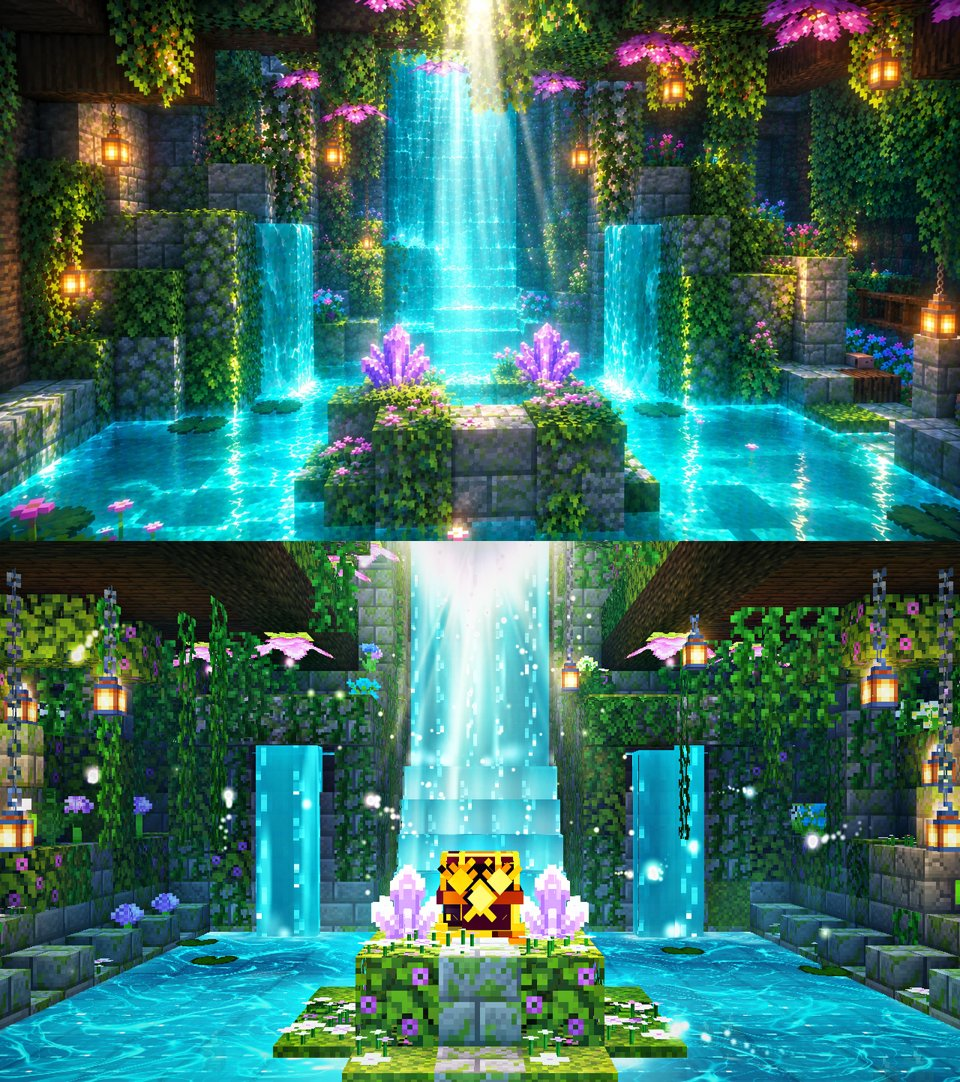
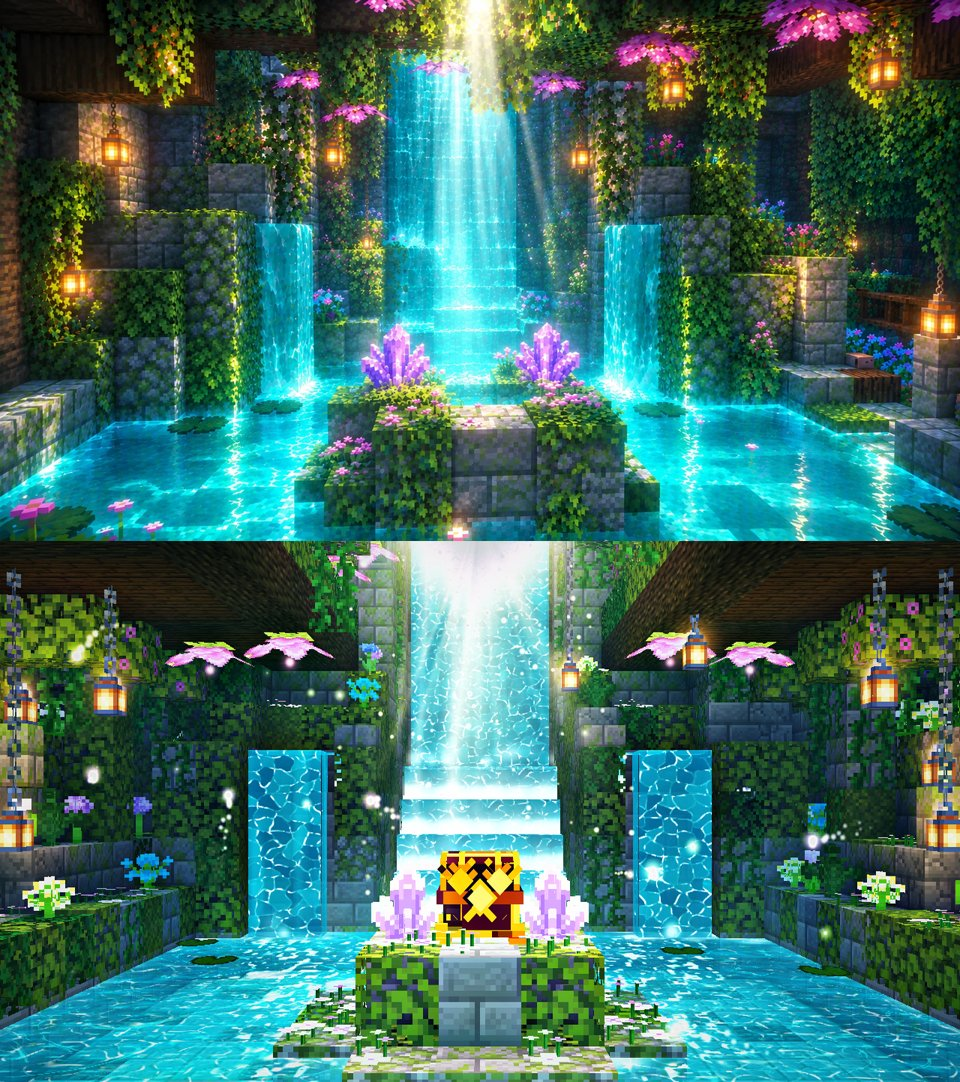
TF Crates: el pilar de luz se apaga al salir el premio (se veía como un cuadrado de color pegado a él), degradado suave bajo el mensaje del premio; comparaciones de la prueba d66c9fb
Claude-Session: https://claude.ai/code/session_01VuZ73GyESy5KRAXtxXJ3Ee

Changed region(s): [[0.0, 0.5185, 1.0, 1.0], [0.9375, 0.671, 0.9688, 0.7015]]

diff --git a/tf-client/src/main/java/net/tierrasfantasticas/tfclient/crates/client/screen/CrateCinematicScreen.java b/tf-client/src/main/java/net/tierrasfantasticas/tfclient/crates/client/screen/CrateCinematicScreen.java
@@ -949,7 +949,9 @@ public class CrateCinematicScreen extends Screen {
             CinematicFx.streamLights(glow, fv, sc, t, Math.min(1.0F, glowWater), rarityColor, surge);
             CinematicFx.runes(glow, fv, sc, t, runeLit, pulseAt(t, OPEN, 24.0F), rarityColor);
             float[] c = sc.anchor("crate");
-            float pillar = smooth(OPEN, OPEN + 8, t) * (t >= REVEAL ? 0.25F + 0.4F * pulseAt(t, REVEAL, 24.0F)
+            // (al salir el premio el pilar se apaga del todo: es una caja de luz y, detrás del premio, se veía como un
+            // cuadrado de color pegado a él; el dueño: «que no traspase ese brillo al item»)
+            float pillar = smooth(OPEN, OPEN + 8, t) * (t >= REVEAL ? 0.3F * (1.0F - smooth(REVEAL, REVEAL + 8, t))
                     : t >= RING0 ? 1.0F - 0.7F * smooth(RING0, RING1, t) : 1.0F);
             if (t > TOTAL - 20) pillar *= Math.max(0.0F, (TOTAL - t) / 20.0F) * 0.5F + 0.5F;
             CinematicFx.pillar(glow, fv, c[0], c[1] + crateH * 0.75F, c[2], 9.0F, pillar, t, rarityColor);
@@ -1095,6 +1097,9 @@ public class CrateCinematicScreen extends Screen {
             // (sobrio: el dueño, «el mensaje de abajo es demasiado exagerado»: sin caja ni rayas, sin negrita ni estrellas;
             // el nombre del premio un poco más grande y la rareza pequeña, en su color)
             int y0 = h - barH - 46;
+            // (para que se lea sin caja: un degradado oscuro suave desde abajo)
+            int sh = (int)(a * 120) << 24;
+            g.fillGradient(0, y0 - 24, w, h - barH, 0x00000000, sh);
             int rc = winnerRarity.rgb() & 0xFFFFFF;
             int soft = (((((rc >> 16) & 255) + 255) / 2) << 16) | (((((rc >> 8) & 255) + 255) / 2) << 8) | (((rc & 255) + 255) / 2);
             drawScaled(g, "¡Has recibido!", w / 2, y0, 0.85F, withAlpha(0xD8D8D8, a * 0.85F));
